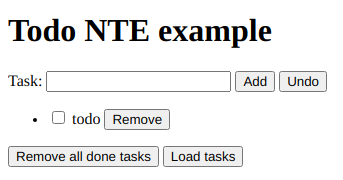
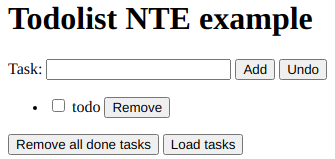
another very fine tune

diff --git a/src/tests.html b/src/tests.html
@@ -23,6 +23,8 @@
 	console.log(model.list)
 	console.log(model.undo(list,undolist))
 	model.simple(list,0)
+	var task_keypress = null
+	if (task_keypress && task_keypress.keyCode===13) console.log("wrong")
 </script>
 
 </body>

diff --git a/src/TodoList.html b/src/TodoList.html
@@ -12,7 +12,7 @@
 <body>
 
 <TodoList>
-  <H1>Todo NTE example</H1>
+  <H1>Todolist NTE example</H1>
 
   Task:
   <input name="task"> 

diff --git a/README.md b/README.md
@@ -23,10 +23,10 @@ So I struggled (and I'm struggling) to do something that combine the UNIX philos
         checkbox @done
         span @desciption
         button "Remove" @remove
-    button "Remove all done tasks" @removedones
+    button "Remove all done tasks" @removeDones
     button "Load tasks" @loadtasks
 ```
-Below the rendered code as **HTML**.
+More below the rendered code as **HTML**.
 ![TodoList.png](imgs/TodoList.png)
 
 ### TodoList (model)
@@ -40,13 +40,12 @@ undolist:[]
 task: ""
 list: []
 
-/* messages
-   msg: (
-     data_member, ...,
-     ctrl_event, ...,
-     data_value, ...,
-     event_prop_value, ...,
-     data_member_test_value
+/* actions
+   action_name: (
+     model_data_member, ...,
+     |ctrl_event, ...,
+     |event_precondition,
+     |data_precondition
    ) => {
      body
      return (next_model_state)
@@ -57,32 +56,28 @@ addTask: (
   task, 
   list,
   add_click,
-  task_change,
-  task_keypress_ketCode_13,
-  task_not_empty
-  => { 
-     list.push{
+  task_keypress_keyCode_13,
+  task_isnot_empty
+  => {
+     list.push({
        done:false, 
-       description:task}
+       description:task
+       })
+
      return {task:""}
      } 
 
 undoTask: (
   list, 
   undolist,
-  undolist_count_not_0
+  undolist_count_isnot_0
   ) 
   => {
      list.push(undolist.pop())
      }
 
-removetask: (
-  list, item,
-  remove_click)
-  => list.pop(item)
-
 loadtasks: (
-  loadtasks_click,
+  // onclick implicit
   loadlist,
   list)
   => {
@@ -93,30 +88,47 @@ loadtasks: (
         }
       )
   }
-  
-removedones: (
-  removedones_click,
+
+removeTask: (
+  list, 
+  item,
+  remove_click)
+  => list.pop(item)
+
+removeDones: (
   list,
-  list_each_item,
-  list_each_item_done_true
-  ) 
-  => list.pop(list_each_item)
+  item,
+  done_is_true
+  )
+  // implicits:
+  // - removeDones_click
+  // - for each item in list
+  //   where item.done===true
+  //   do:
+  => list.pop(item)
 
 // controls behaviours
 
 add: { 
-  disabled: (task,task_empty)=>{} 
+  disabled: 
+    (task,task_keypress)
+    => task==="" 
   }
 
 undo: {
-  disabled: (list_count_0)=>{} 
+  disabled:
+    (list)=>list.count===0 
+    // object's change events
+    // come from  
+    // method's override
 }
 
 list: {
   item: {
     description: {
-      className: (done) 
-      => done?"removed":"" 
+      className: 
+        (done) => done?"removed":""
+        // done_change is implicit
       }
   }
 }
@@ -124,23 +136,25 @@ list: {
 Below the **transpiled** Javascript version.
 
 **Pros**
+- auto-bind between controls and model data 
 - a lot of inference
 - no learning curve but only a y=m*x with very low m
-- client or server pre-rendering/precompile
+- client or server pre rendering/tanspile
 - model can be generated by a server IDE/language of your pleasure 
-- double bind check between model<=>controls
 - component oriented
 - possible flow-check
-- UI events are hidden/wrapped by application actions (**this is an application framework**, not an alternative behavior of the language and the browser's UI)
 - simplify/automate tests 
-- simplified diffs
+- simplified code diffs
 - possible automatized diagram generation with tools as Graphwiz
+
+**Cons**
+- let me know
 
 ### TodoList.html
 
 ```html
 <TodoList>
-  <H1>Todo NTE example</H1>
+  <H1>Todolist NTE example</H1>
 
   Task:
   <input name="task"> 
@@ -157,6 +171,7 @@ Below the **transpiled** Javascript version.
 
   </ul>
   <button name="removedones">Remove all done tasks</button>
+  <button name="loadtasks">Load tasks</button>
 </TodoList>
 ```
 
@@ -207,11 +222,7 @@ console.log(test2)
 
 ### Ideas for the future
 
-#### Direct link to GUI parts?
-
-I'm imagining some feature that uses ** "hash"** both for a rapid recovery of a context and for testing purposes.
-
-#### Widgets template?
+#### Widgets template and/or 3rd party component binding
 
 ```javascript
 money @toPay "To pay"
@@ -253,12 +264,6 @@ widget @money
 - Simple todolist example with KnockoutJS [code&demo](http://jsfiddle.net/icoxfog417/sujqa/)
 - Simple todolist example with React [code](https://github.com/christiannwamba/scotch-react-todo/blob/master/src/index.jsx) [demo](https://codepen.io/codebeast/full/PzVyRm)
 - Simple todolist example with Angular2 [code&demo](http://embed.plnkr.co/ZiVJbCeX4GDgC1kMjnUB/)
-
-### Sponsor wanted
-
-<img src="imgs/IwantU.jpg" alt="I want You" style="zoom:15%;" />
-
-If you like the idea, I'm searching a sponsor for a full time development.
 
 ### Next cases to check
 
